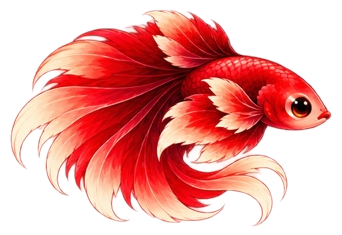
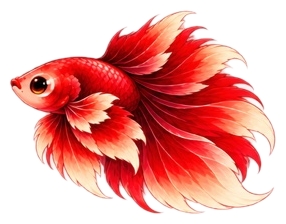
Rose/Ember: remove distinct swim 4 (use swim 1, SPRITE_V 57)

diff --git a/public/js/data.js b/public/js/data.js
@@ -87,7 +87,7 @@ const DATA = {
 
 /** Frame roles: 0 idle, 1-4 swim, 5 eat (only while eating), 6 sleep, 7 rear/turn */
 // Bump SPRITE_V whenever shipped art changes so phones don't keep stale cached PNGs.
-const SPRITE_V = 56;
+const SPRITE_V = 57;
 // Species with a custom hybrid egg icon (assets/eggs/<species_id>.png).
 const EGG_V = 11;
 const EGG_ART = {
